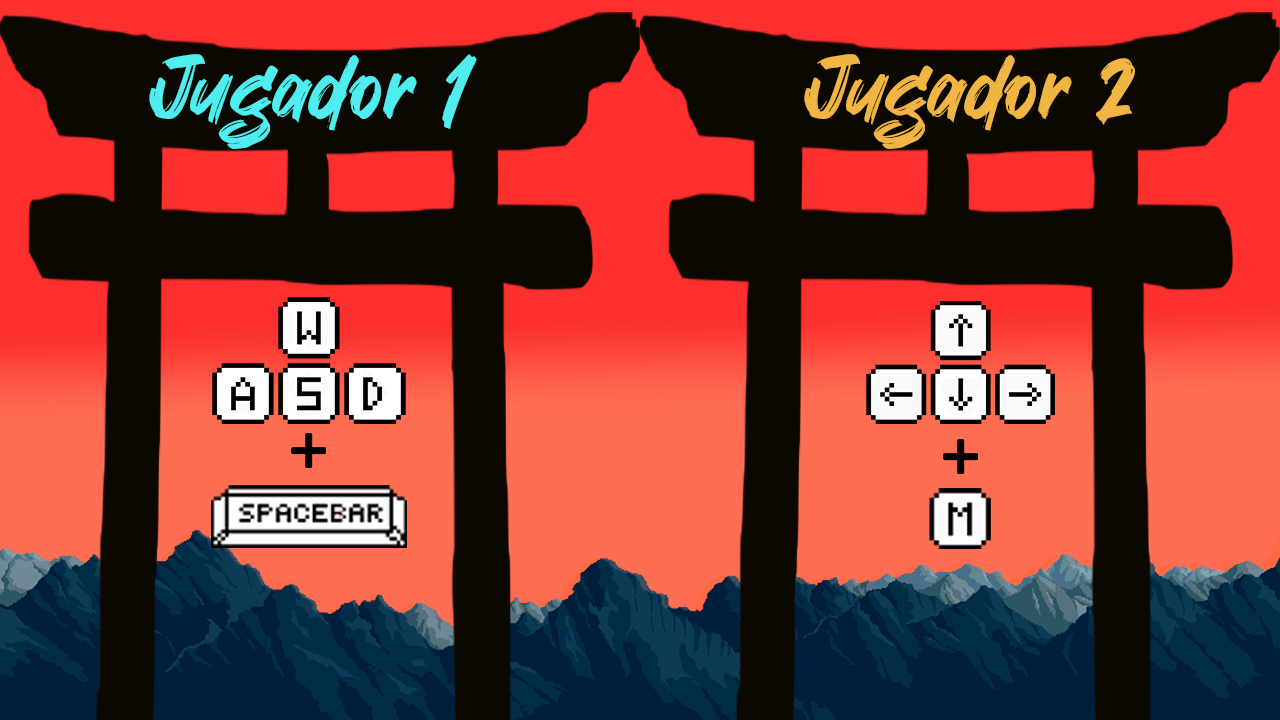
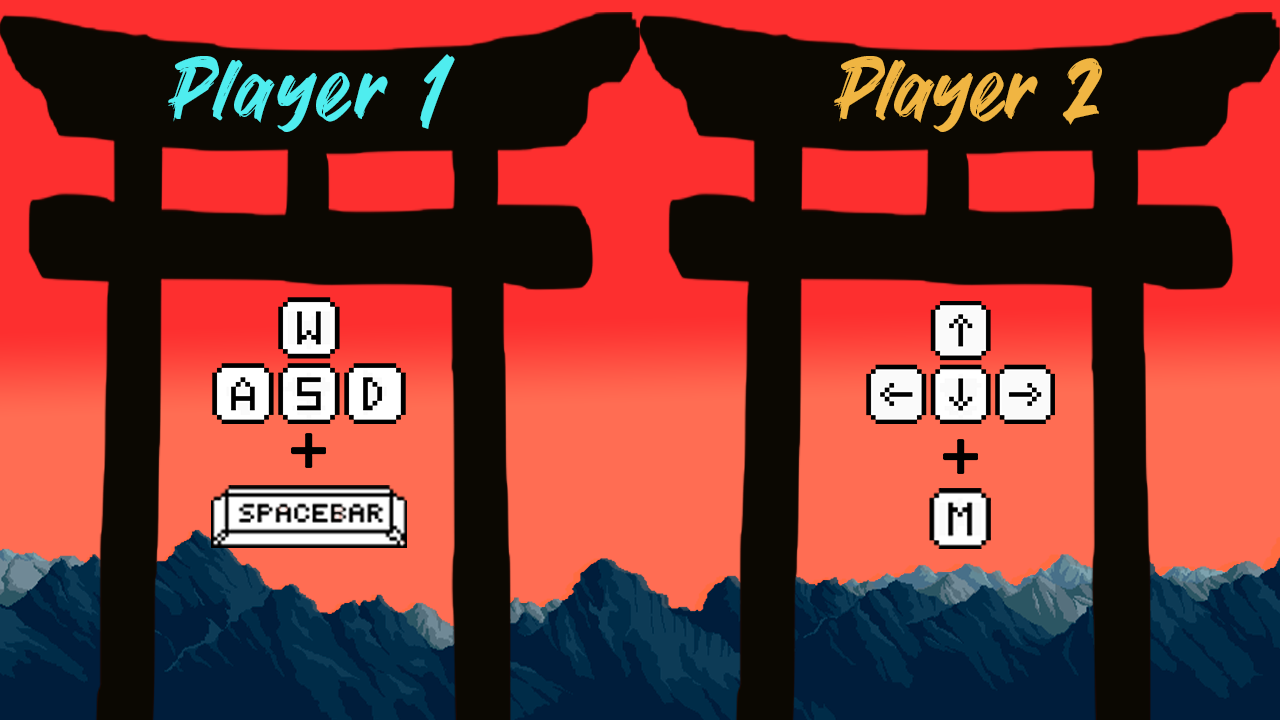
+ title and update controls image

Changed region(s): [[0.625, 0.0611, 0.9062, 0.2139], [0.0938, 0.0611, 0.375, 0.2139]]

diff --git a/include/menu.hpp b/include/menu.hpp
@@ -60,6 +60,7 @@ public:
         Button optionsButton(sf::Vector2f(280, 60), sf::Vector2f(500, 435), &optionsButtonTexture);
         Button exitButton(sf::Vector2f(280, 60), sf::Vector2f(500, 500), &exitTexture);
         Button backButton(sf::Vector2f(700, 130), sf::Vector2f(500, 100), &exitTexture);
+        Button title(sf::Vector2f(1280, 288),sf::Vector2f(500, 150), &titleTexture);
 
         bool inWindow = false; // Add a flag to control the controls window
 
@@ -78,8 +79,8 @@ public:
             sf::RectangleShape background(sf::Vector2f(1280, 720));
             background.setTexture(&menuBackground);
             menuWindow->draw(background);
-
             // Dibujar botones
+            title.Draw(*menuWindow);
             playButton.Draw(*menuWindow);
             optionsButton.Draw(*menuWindow);
             exitButton.Draw(*menuWindow);
